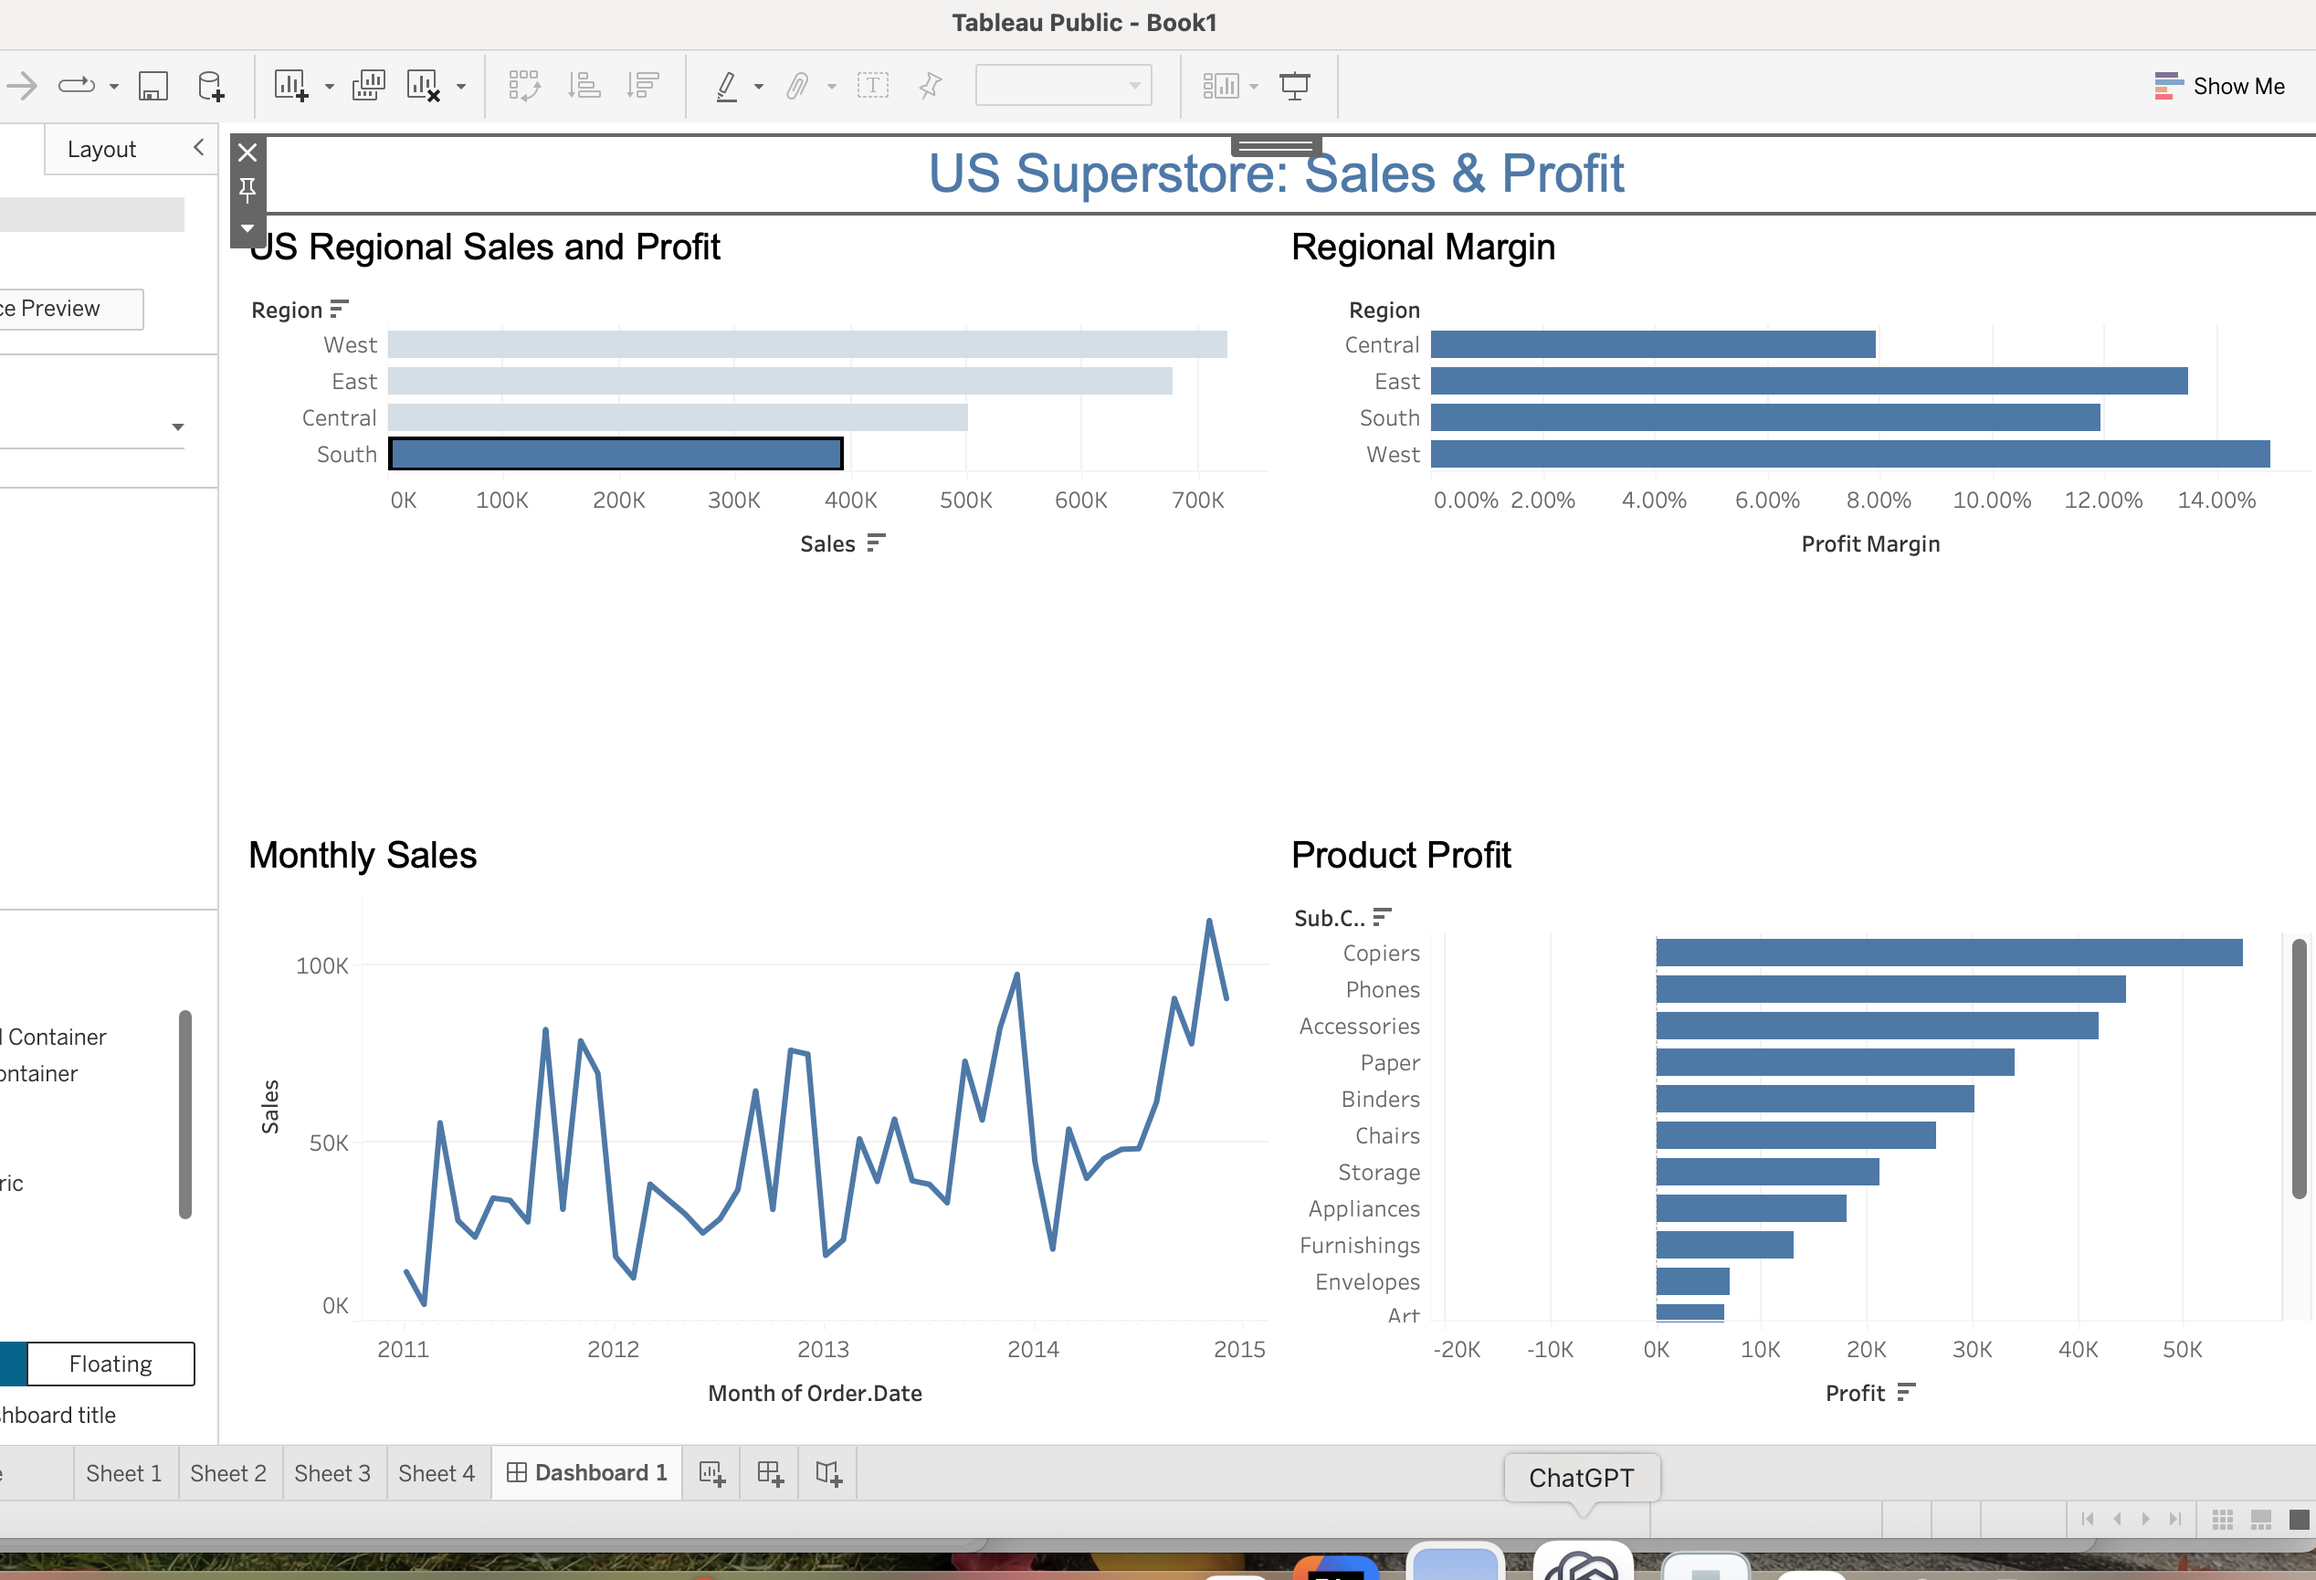
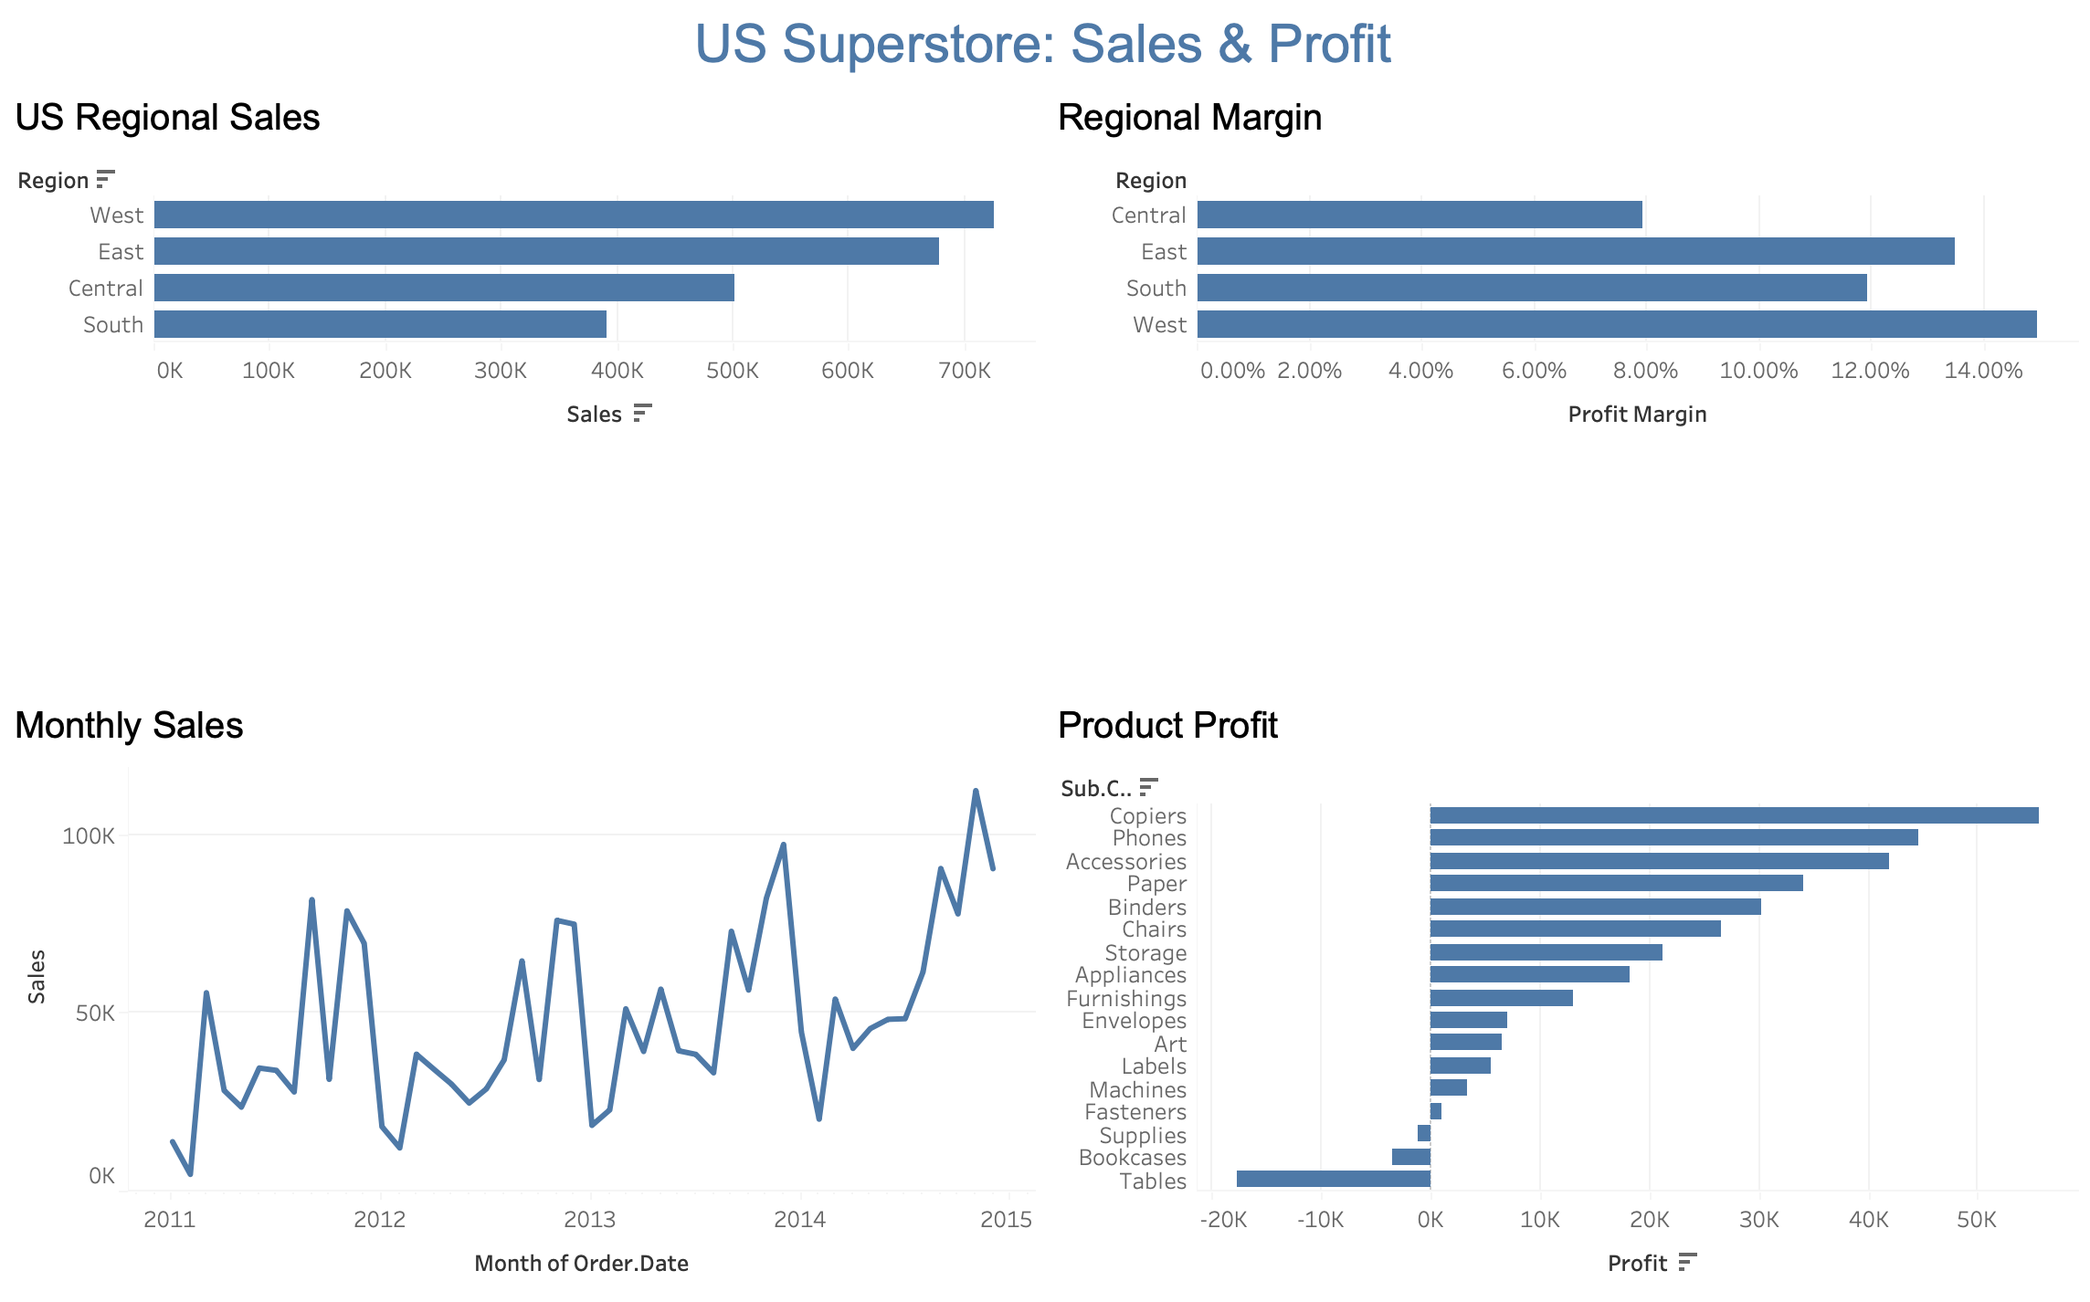
Use full Tableau screenshot and remove PDF links

diff --git a/ANALYSIS.md b/ANALYSIS.md
@@ -4,7 +4,7 @@
 
 I wanted to understand Superstore's US sales and profit performance from 2011 to 2014, rather than stop at a ranking of the largest markets. The R dashboard combines retail records with state GDP, population and income per capita. Tableau adds a closer look at regional margins, monthly sales and product profitability.
 
-This write-up covers the analytical sections in my original report and adds the Tableau analysis. The [unaltered ten-page report](analysis-report.pdf), [complete text](REPORT_FULL_TEXT.md), original charts and original R code are included. Values below are checked against the supplied data; the report retains its original approximations and wording.
+This write-up covers the analytical sections in my original report and adds the Tableau analysis. The [complete text](REPORT_FULL_TEXT.md), original charts and original R code are included. Values below are checked against the supplied data; the report retains its original approximations and wording.
 
 ## Data and methods
 
@@ -147,4 +147,4 @@ The original report identifies:
 
 Other income links previously considered: [USA Census Income Data](https://www.kaggle.com/datasets/manishkc06/usa-census-income-data), [Poverty-Level Wages](https://www.kaggle.com/datasets/asaniczka/poverty-level-wages-in-the-usa-dataset-1973-2022), and [Incomes of 30K USA Citizens](https://www.kaggle.com/datasets/jacopoferretti/incomes-of-30k-usa-citizens). The implementation uses the BEA state income spreadsheet; these additional links are not represented as inputs to that workflow.
 
-The report acknowledges ChatGPT assistance on May 29, 2026 with annual totals, cleaning asterisks from state names and use of `ungroup()`. Its acknowledgment is preserved in full in the original PDF and transcription. This expanded portfolio write-up and data verification were also prepared with AI assistance.
+The report acknowledges ChatGPT assistance on May 29, 2026 with annual totals, cleaning asterisks from state names and use of `ungroup()`. Its acknowledgment is preserved in full in the transcription. This expanded portfolio write-up and data verification were also prepared with AI assistance.

diff --git a/README.md b/README.md
@@ -9,7 +9,7 @@ I wanted to know where Superstore was selling well, and where those sales were a
 **West generated 31.6% of sales. Texas ranked third by sales, but lost $25,729.** That gap between revenue and profit became the main thread of the analysis.
 
 - [Detailed analysis and charts](ANALYSIS.md)
-- [Original ten-page report](analysis-report.pdf) · [Complete report text](REPORT_FULL_TEXT.md)
+- [Complete report text](REPORT_FULL_TEXT.md)
 - [Download Tableau workbook with data](Superstore_R_Tableau.twbx?raw=true) · [Original saved .twb](tableau.twb)
 - [Notebook](project.ipynb) · [Portfolio](https://xushuqing0575.github.io/#superstore)
 
